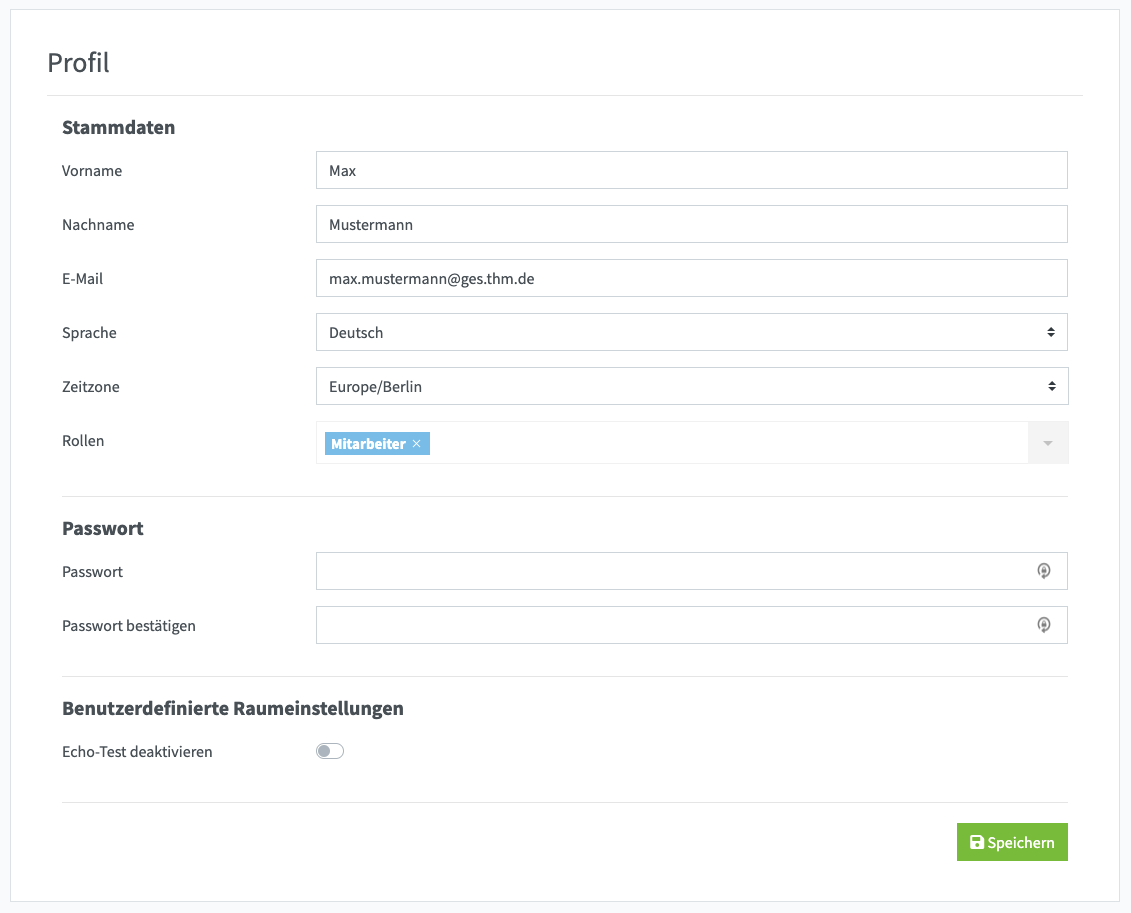
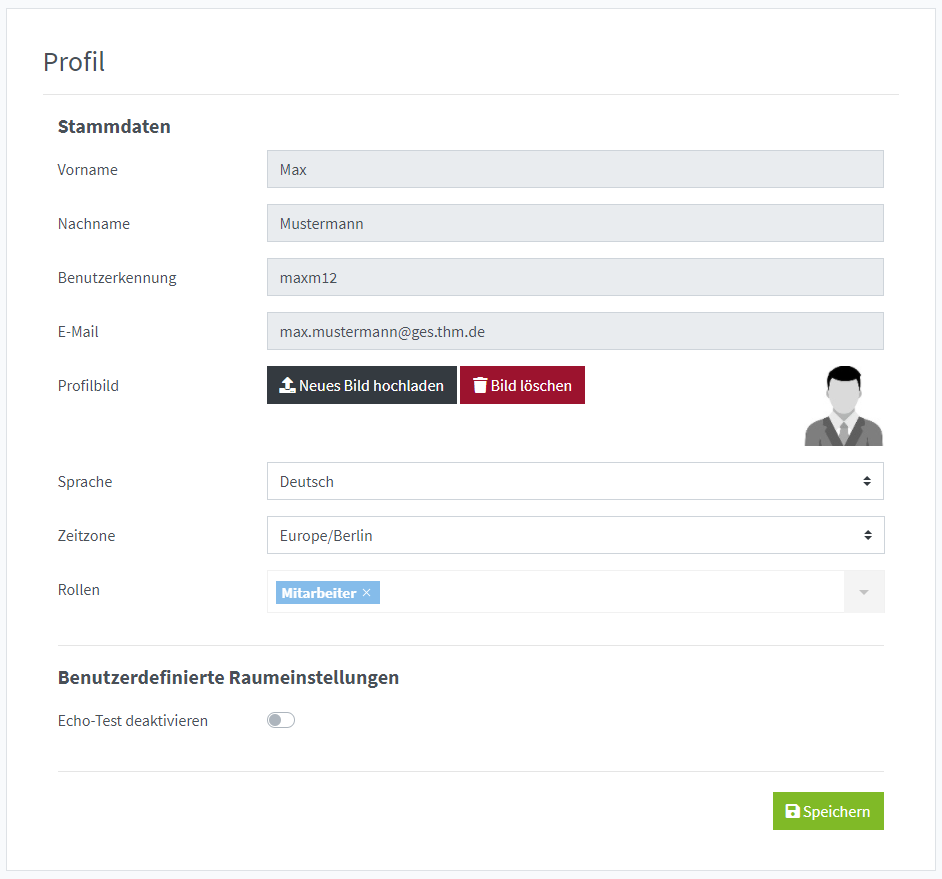
Add profile picture to docs

diff --git a/user/profile.md b/user/profile.md
@@ -23,6 +23,15 @@ Sollte die Ihnen automatisch zugewiesene Rolle Ihrer Meinung nach falsch sein, k
 
 In dieser Ansicht können Sie ebenfalls Ihre Zeitzone einstellen, in diesem Fall werden die Datum- und Uhrzeitangaben in PILOS und in Emails in der gewünschten Zeitzone angezeigt.
 
+### Profilbild ändern
+
+Sie können Ihrem Benutzerkonto ein Profilbild hinzufügen. Dieses wird in der Videokonferenz neben Ihrem Namen angezeigt. Auch wird es für den Raumeigentümer und die Miteigentümer in der Liste der Raummitglieder dargestellt.
+Das Bild können Sie jederzeit löschen oder durch ein anderes Bild ersetzen.
+
+Wenn Sie ein neues Bild hochladen (png oder jpg) können Sie es über eine Dialogbox auf das Format 1x1 zuschneiden.
+
+<img src="{{ site.baseurl }}/assets/img/screenshots/user/profile-image-crop.png" alt="crop profile image" style="max-width: 100%; width: 300px"/>
+
 
 ### Passwort ändern
 
